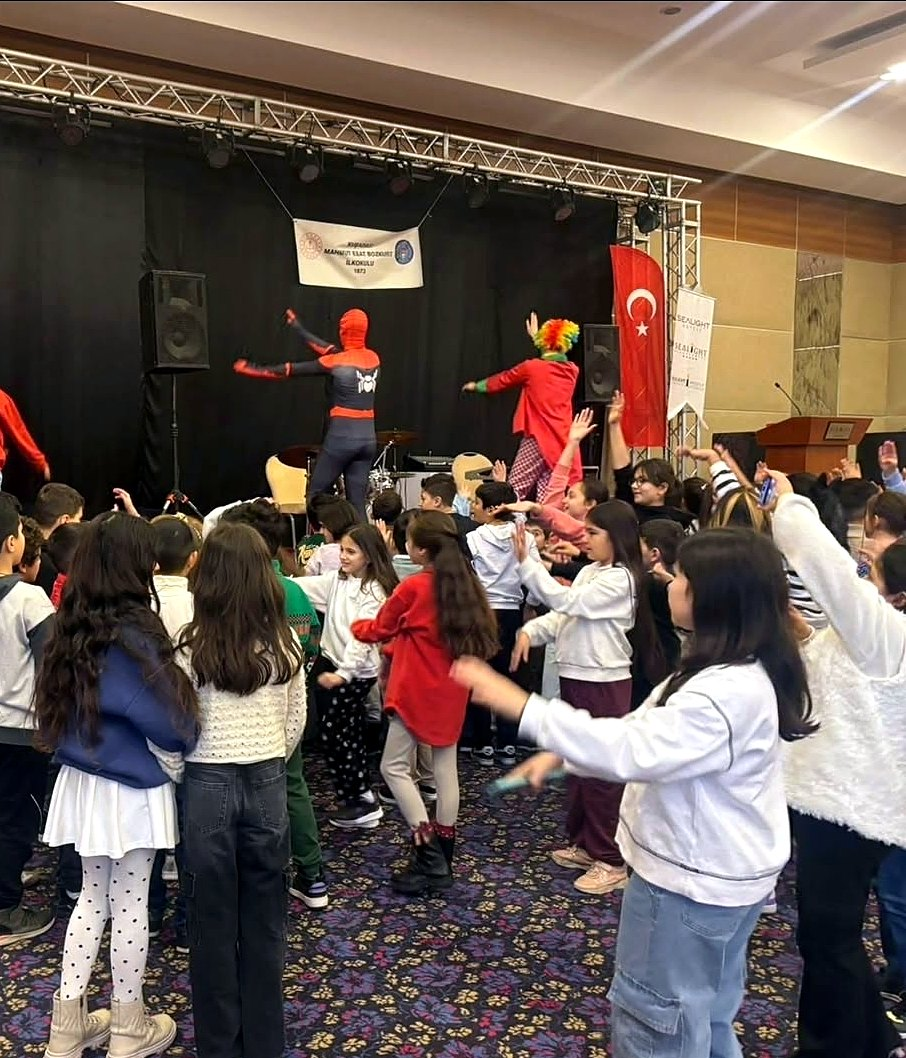
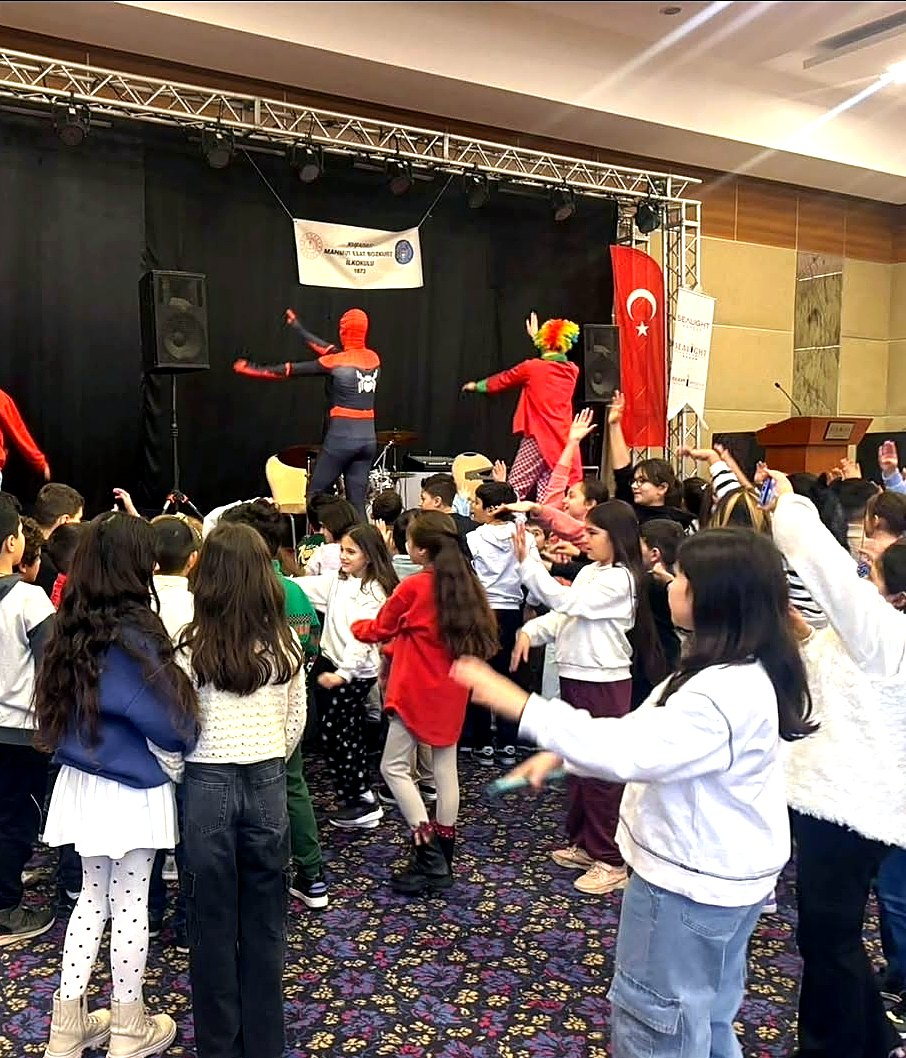
Bütün saha fotoğraflarını yeniden kırp ve galeriye diz

diff --git a/index.html b/index.html
@@ -200,16 +200,17 @@
       <div class="gallery">
         <button type="button" data-gallery data-full="assets/hero.jpg" data-caption="Salon süslemesi ve karakterler"><img src="assets/hero.jpg" alt="Salon süslemesi ve karakterler"></button>
         <button type="button" data-gallery data-full="assets/galeri-gosteri.jpg" data-caption="Palyaço gösterisi"><img src="assets/galeri-gosteri.jpg" alt="Palyaço gösterisi"></button>
+        <button type="button" data-gallery data-full="assets/portre.jpg" data-caption="Sakız Palyaço"><img src="assets/portre.jpg" alt="Sakız Palyaço"></button>
+        <button type="button" data-gallery data-full="assets/galeri-maskot.jpg" data-caption="Maskot ve palyaço"><img src="assets/galeri-maskot.jpg" alt="Maskot ve palyaço"></button>
+        <button type="button" data-gallery data-full="assets/galeri-acik-hava.jpg" data-caption="Açık hava karakter karşılama"><img src="assets/galeri-acik-hava.jpg" alt="Açık hava karakter karşılama"></button>
+        <button type="button" data-gallery data-full="assets/galeri-karakter.jpg" data-caption="Balonlar ve kostümlü karakter"><img src="assets/galeri-karakter.jpg" alt="Balonlar ve kostümlü karakter"></button>
         <button type="button" data-gallery data-full="assets/galeri-acilis.jpg" data-caption="Kırmızı balon kemer"><img src="assets/galeri-acilis.jpg" alt="Kırmızı balon kemer"></button>
         <button type="button" data-gallery data-full="assets/galeri-buket.jpg" data-caption="Kişiye özel balon buketi"><img src="assets/galeri-buket.jpg" alt="Kişiye özel balon buketi"></button>
         <button type="button" data-gallery data-full="assets/galeri-balon-heykel.jpg" data-caption="Balon heykeli ve palyaço"><img src="assets/galeri-balon-heykel.jpg" alt="Balon heykeli ve palyaço"></button>
-        <button type="button" data-gallery data-full="assets/galeri-karakter.jpg" data-caption="Balonlar ve kostümlü karakter"><img src="assets/galeri-karakter.jpg" alt="Balonlar ve kostümlü karakter"></button>
-        <button type="button" data-gallery data-full="assets/galeri-maskot.jpg" data-caption="Maskot ve palyaço"><img src="assets/galeri-maskot.jpg" alt="Maskot ve palyaço"></button>
-        <button type="button" data-gallery data-full="assets/galeri-acik-hava.jpg" data-caption="Açık hava karakter karşılama"><img src="assets/galeri-acik-hava.jpg" alt="Açık hava karakter karşılama"></button>
         <button type="button" data-gallery data-full="assets/hizmet-pamuk.jpg" data-caption="Pamuk şeker makinesi"><img src="assets/hizmet-pamuk.jpg" alt="Pamuk şeker makinesi"></button>
         <button type="button" data-gallery data-full="assets/hizmet-pamuk-2.jpg" data-caption="Pamuk şeker hazırlığı"><img src="assets/hizmet-pamuk-2.jpg" alt="Pamuk şeker hazırlığı"></button>
         <button type="button" data-gallery data-full="assets/hizmet-elma.jpg" data-caption="Elma şekeri"><img src="assets/hizmet-elma.jpg" alt="Elma şekeri"></button>
-        <button type="button" data-gallery data-full="assets/portre.jpg" data-caption="Sakız Palyaço"><img src="assets/portre.jpg" alt="Sakız Palyaço"></button>
+        <button type="button" data-gallery data-full="assets/hizmet-misir.jpg" data-caption="Patlamış mısır standı"><img src="assets/hizmet-misir.jpg" alt="Patlamış mısır standı"></button>
       </div>
     </section>
 

diff --git a/styles.css b/styles.css
@@ -238,7 +238,8 @@ td:last-child, th:last-child { text-align: right; font-weight: 700; color: var(-
   transition: transform 0.22s ease, box-shadow 0.22s ease;
 }
 .gallery button:hover { transform: translateY(-4px); box-shadow: var(--shadow); }
-.gallery img { width: 100%; height: 100%; object-fit: contain; }
+.gallery button { padding: 0; }
+.gallery img, .services img, .hero-card img, .portrait img { object-fit: cover; object-position: center; }
 
 .about {
   display: grid;
